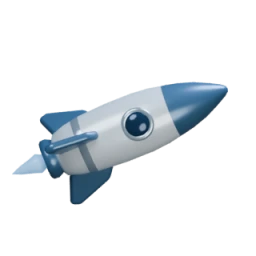
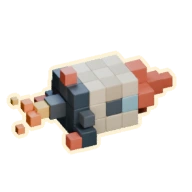
Redesenha a pesquisa com foguete e grafismos voxel

Changed region(s): [[0.0312, 0.25, 0.9375, 0.8125]]

diff --git a/make-it-fly-current/components/surveys/surveys.module.css b/make-it-fly-current/components/surveys/surveys.module.css
@@ -1,5 +1,13 @@
 .pageHeader, .formWrap { margin-inline: var(--apogee-page-margin); }
-.pageHeader { padding-block: clamp(2rem, 5vw, 4rem); }
+.pageHeader { position: relative; isolation: isolate; padding-block: clamp(1.75rem, 4.5vw, 3.5rem); }
+.pageHeader::before {
+  content: "";
+  display: block;
+  width: 3.25rem;
+  height: .375rem;
+  margin-block-end: .75rem;
+  background: repeating-linear-gradient(90deg, var(--ap-accent) 0 .375rem, transparent .375rem .625rem);
+}
 .pageHeader h1 {
   max-width: 50rem;
   margin: 0;
@@ -76,6 +84,7 @@
 }
 .formCard, .receipt {
   padding: clamp(1rem, 3vw, 1.85rem);
+  --ap-card-radius: .625rem;
 }
 
 .formFields .question { padding: .4rem 0 1.1rem; }
@@ -105,7 +114,7 @@
   justify-content: center;
   min-width: 0;
   border: 1px solid var(--ap-line);
-  border-radius: var(--ap-control-radius);
+  border-radius: .25rem;
   background: var(--ap-secondary-fill);
   box-shadow: var(--ap-edge);
   cursor: pointer;
@@ -132,7 +141,13 @@
 .progress {
   min-width: 0;
   padding: .75rem 1rem .7rem;
-  --ap-card-fill: var(--ap-primary-fill);
+  --survey-grid-line: color-mix(in srgb, var(--ap-brand-sky) 11%, transparent);
+  --survey-propulsion: #ffb46e;
+  --ap-card-radius: .625rem;
+  --ap-card-fill:
+    linear-gradient(var(--survey-grid-line) 1px, transparent 1px) 0 0 / .75rem .75rem,
+    linear-gradient(90deg, var(--survey-grid-line) 1px, transparent 1px) 0 0 / .75rem .75rem,
+    var(--ap-primary-fill);
   --ap-line: var(--ap-primary-edge);
   --ap-text: var(--ap-on-navy);
   --ap-shadow: var(--ap-primary-shadow);
@@ -145,23 +160,26 @@
   font-size: .925rem;
   font-weight: 650;
 }
-.progressPercent { color: var(--ap-brand-sky); font-variant-numeric: tabular-nums; }
+.progressPercent { color: var(--survey-propulsion); font-variant-numeric: tabular-nums; }
 .progress .progressCount { margin: .15rem 0 0; color: var(--ap-brand-sky); font-size: .8rem; line-height: 1.3; }
 .route {
   position: relative;
-  height: 2.55rem;
-  margin-inline: 1rem;
+  height: 3.25rem;
+  margin-inline: 1.375rem;
 }
 .routeTrack, .routeFill {
   position: absolute;
   left: 0;
   bottom: .65rem;
-  height: .1875rem;
-  border-radius: 99px;
+  height: .25rem;
 }
 .routeTrack {
   width: 100%;
-  background: color-mix(in srgb, var(--ap-brand-sky) 50%, var(--ap-navy));
+  background: repeating-linear-gradient(
+    90deg,
+    color-mix(in srgb, var(--ap-brand-sky) 50%, var(--ap-navy)) 0 .4rem,
+    transparent .4rem .55rem
+  );
 }
 .routeTrack::before, .routeTrack::after {
   content: "";
@@ -169,21 +187,24 @@
   top: 50%;
   width: .45rem;
   height: .45rem;
-  border-radius: 50%;
   background: var(--ap-brand-sky);
   translate: 0 -50%;
 }
 .routeTrack::before { left: -.2rem; }
 .routeTrack::after { right: -.2rem; }
-.routeFill { width: var(--survey-progress); background: var(--ap-brand-sky); transition: width var(--ap-settle) var(--ap-ease); }
+.routeFill {
+  width: var(--survey-progress);
+  background: var(--survey-propulsion);
+  transition: width var(--ap-settle) steps(10, end);
+}
 .rocket {
   position: absolute;
   left: var(--survey-progress);
-  bottom: -.42rem;
-  width: 3.15rem;
+  bottom: -.75rem;
+  width: 4.25rem;
   aspect-ratio: 1;
   translate: -50% 0;
-  transition: left var(--ap-settle) var(--ap-ease);
+  transition: left var(--ap-settle) steps(10, end);
   pointer-events: none;
 }
 .rocket img { display: block; width: 100%; height: auto; }
@@ -195,6 +216,15 @@
 }
 
 @media (min-width: 56rem) {
+  .pageHeader::after {
+    content: "";
+    position: absolute;
+    z-index: -1;
+    inset: 18% clamp(1.5rem, 5vw, 5rem) 18% auto;
+    width: clamp(7rem, 17vw, 15rem);
+    background: repeating-conic-gradient(var(--ap-section) 0% 25%, transparent 0% 50%) 0 0 / 1.5rem 1.5rem;
+    clip-path: polygon(50% 0, 100% 0, 100% 100%, 0 100%, 0 75%, 17% 75%, 17% 50%, 34% 50%, 34% 25%, 50% 25%);
+  }
   .form[data-has-progress="true"][data-preview="false"] {
     grid-template-columns: minmax(0, 1fr) minmax(14rem, 17rem);
     column-gap: clamp(1rem, 2vw, 1.5rem);
@@ -203,8 +233,8 @@
   .form[data-preview="false"] .progressPosition { grid-area: 1 / 2; top: 1.25rem; }
   .form[data-has-progress="true"][data-preview="false"] .formFields { grid-area: 1 / 1; }
   .progress { padding: 1rem; }
-  .route { height: 3.1rem; }
-  .rocket { width: 3.5rem; }
+  .route { height: 3.75rem; }
+  .rocket { width: 4.5rem; }
 }
 
 @media (prefers-reduced-motion: reduce) {

diff --git a/make-it-fly-current/components/surveys/survey-form.tsx b/make-it-fly-current/components/surveys/survey-form.tsx
@@ -62,7 +62,7 @@ function SurveyProgress({ answered, total, complete = false }: { answered: numbe
       <div className={styles.routeTrack} />
       <div className={styles.routeFill} />
       <div className={styles.rocket}>
-        <Image src="/brand/rocket-progress.webp" alt="" width={64} height={64} unoptimized />
+        <Image src="/brand/rocket-progress.webp" alt="" width={72} height={72} unoptimized />
       </div>
     </div>
     <p className={styles.progressCount}>{label}</p>
